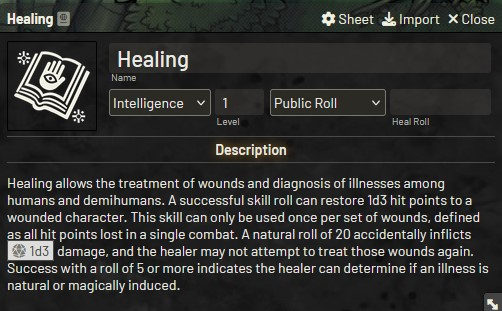
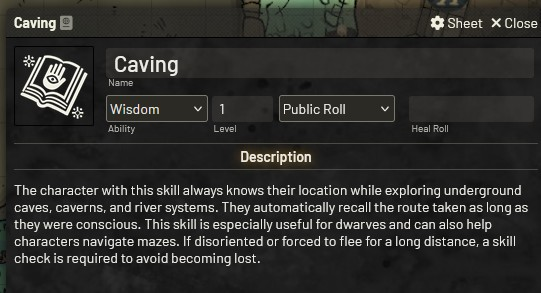
Updating images to reflect current UI

diff --git a/README.md b/README.md
@@ -32,6 +32,9 @@ The character sheet can handle any of the core classes and levels up to 24. Mons
 ### Character Inventory
 ![inventory](./assets/img/docs/charsheet2.jpg)
 
+### Character Skills
+![skills](./assets/img/docs/charsheet3.jpg)
+
 ## Monster Sheet
 The monster sheet allows for custom equippment, spells and possession and use of magic items.
 ![monster](./assets/img/docs/monstersheet1.jpg)
@@ -39,16 +42,25 @@ The monster sheet allows for custom equippment, spells and possession and use of
 ## Item Sheet
 There are item sheets for adventuring gear, armor, weapons, general skills, weapon masteries, spells and special class abilities.
 
+### Light Item Sheet
+![light](./assets/img/docs/lightitemsheet1.jpg)
+
 ### Weapon Sheet
 ![weapon](./assets/img/docs/weaponsheet.jpg)
 
 ### Armor Sheet
 ![armor](./assets/img/docs/armorsheet1.jpg)
 
+### Class Sheet
+![class](./assets/img/docs/classsheet.jpg)
+
 ### Skill Sheet
 ![skill](./assets/img/docs/skillsheet1.jpg)
 
-### Weapon Mastery Sheet
+### Weapon Mastery Definition Sheet
+![weaponmastery](./assets/img/docs/masterydef.jpg)
+
+### Actor Weapon Mastery Sheet
 ![mastery](./assets/img/docs/mastery1.jpg)
 
 ### Spell Sheet
@@ -56,4 +68,4 @@ There are item sheets for adventuring gear, armor, weapons, general skills, weap
 
 ### Effects
 Effects can be added to all weapons, armor and adventuring gear. The effect can modify a value on the item or on the owning character.
-![armor](./assets/img/docs/itemeffects1.jpg)
+![effects](./assets/img/docs/itemeffects1.jpg)
